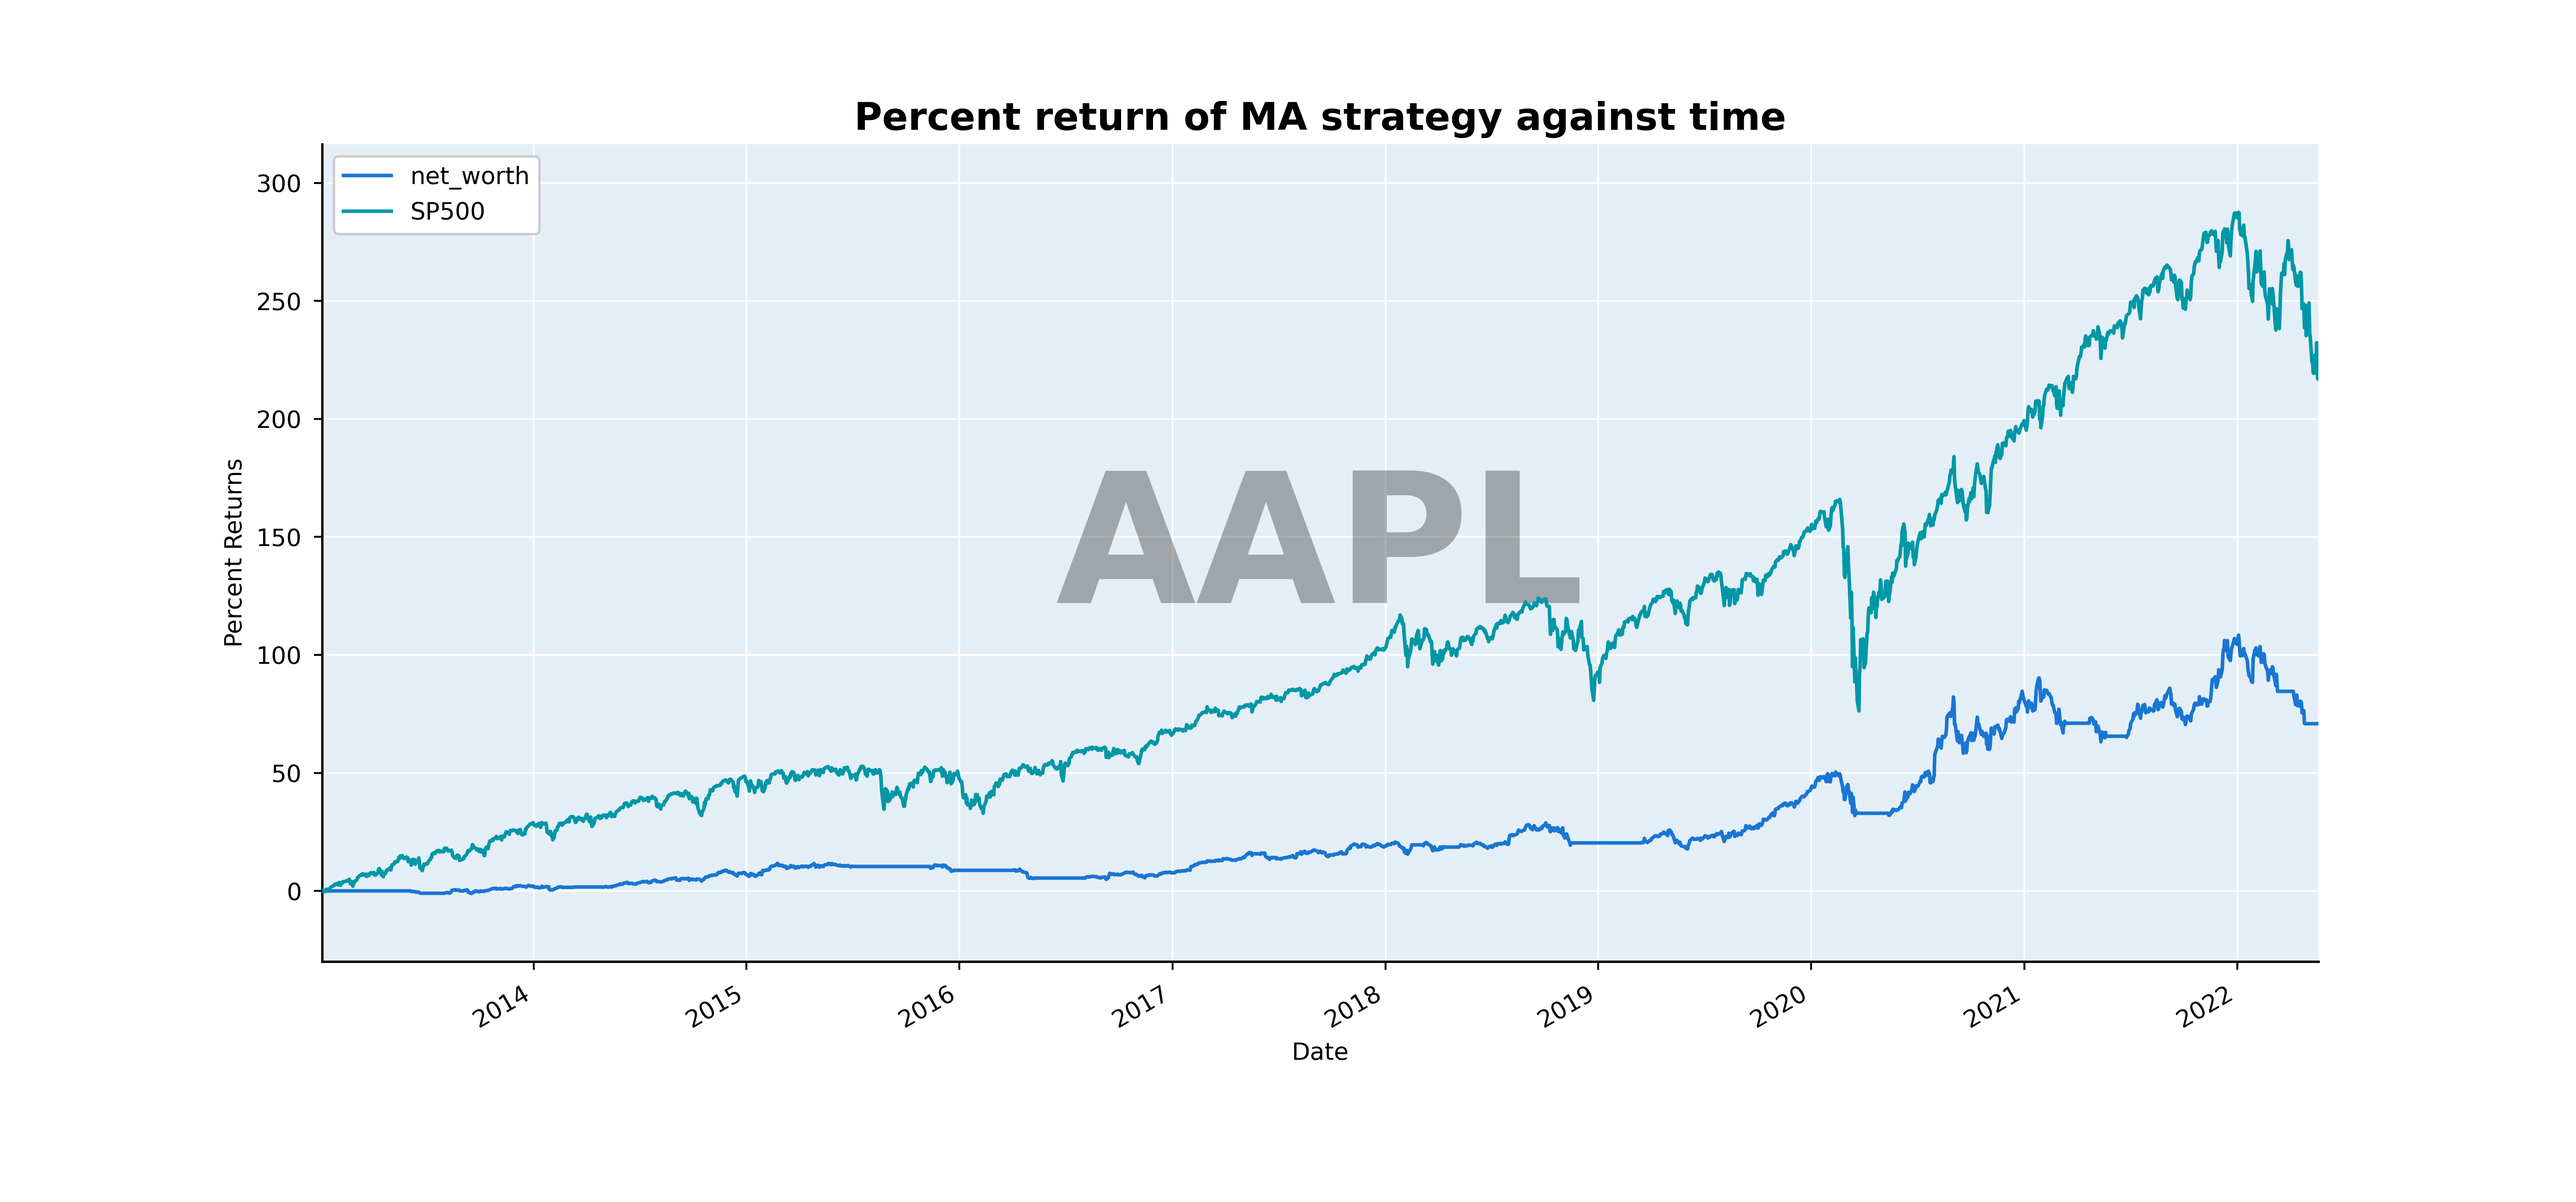
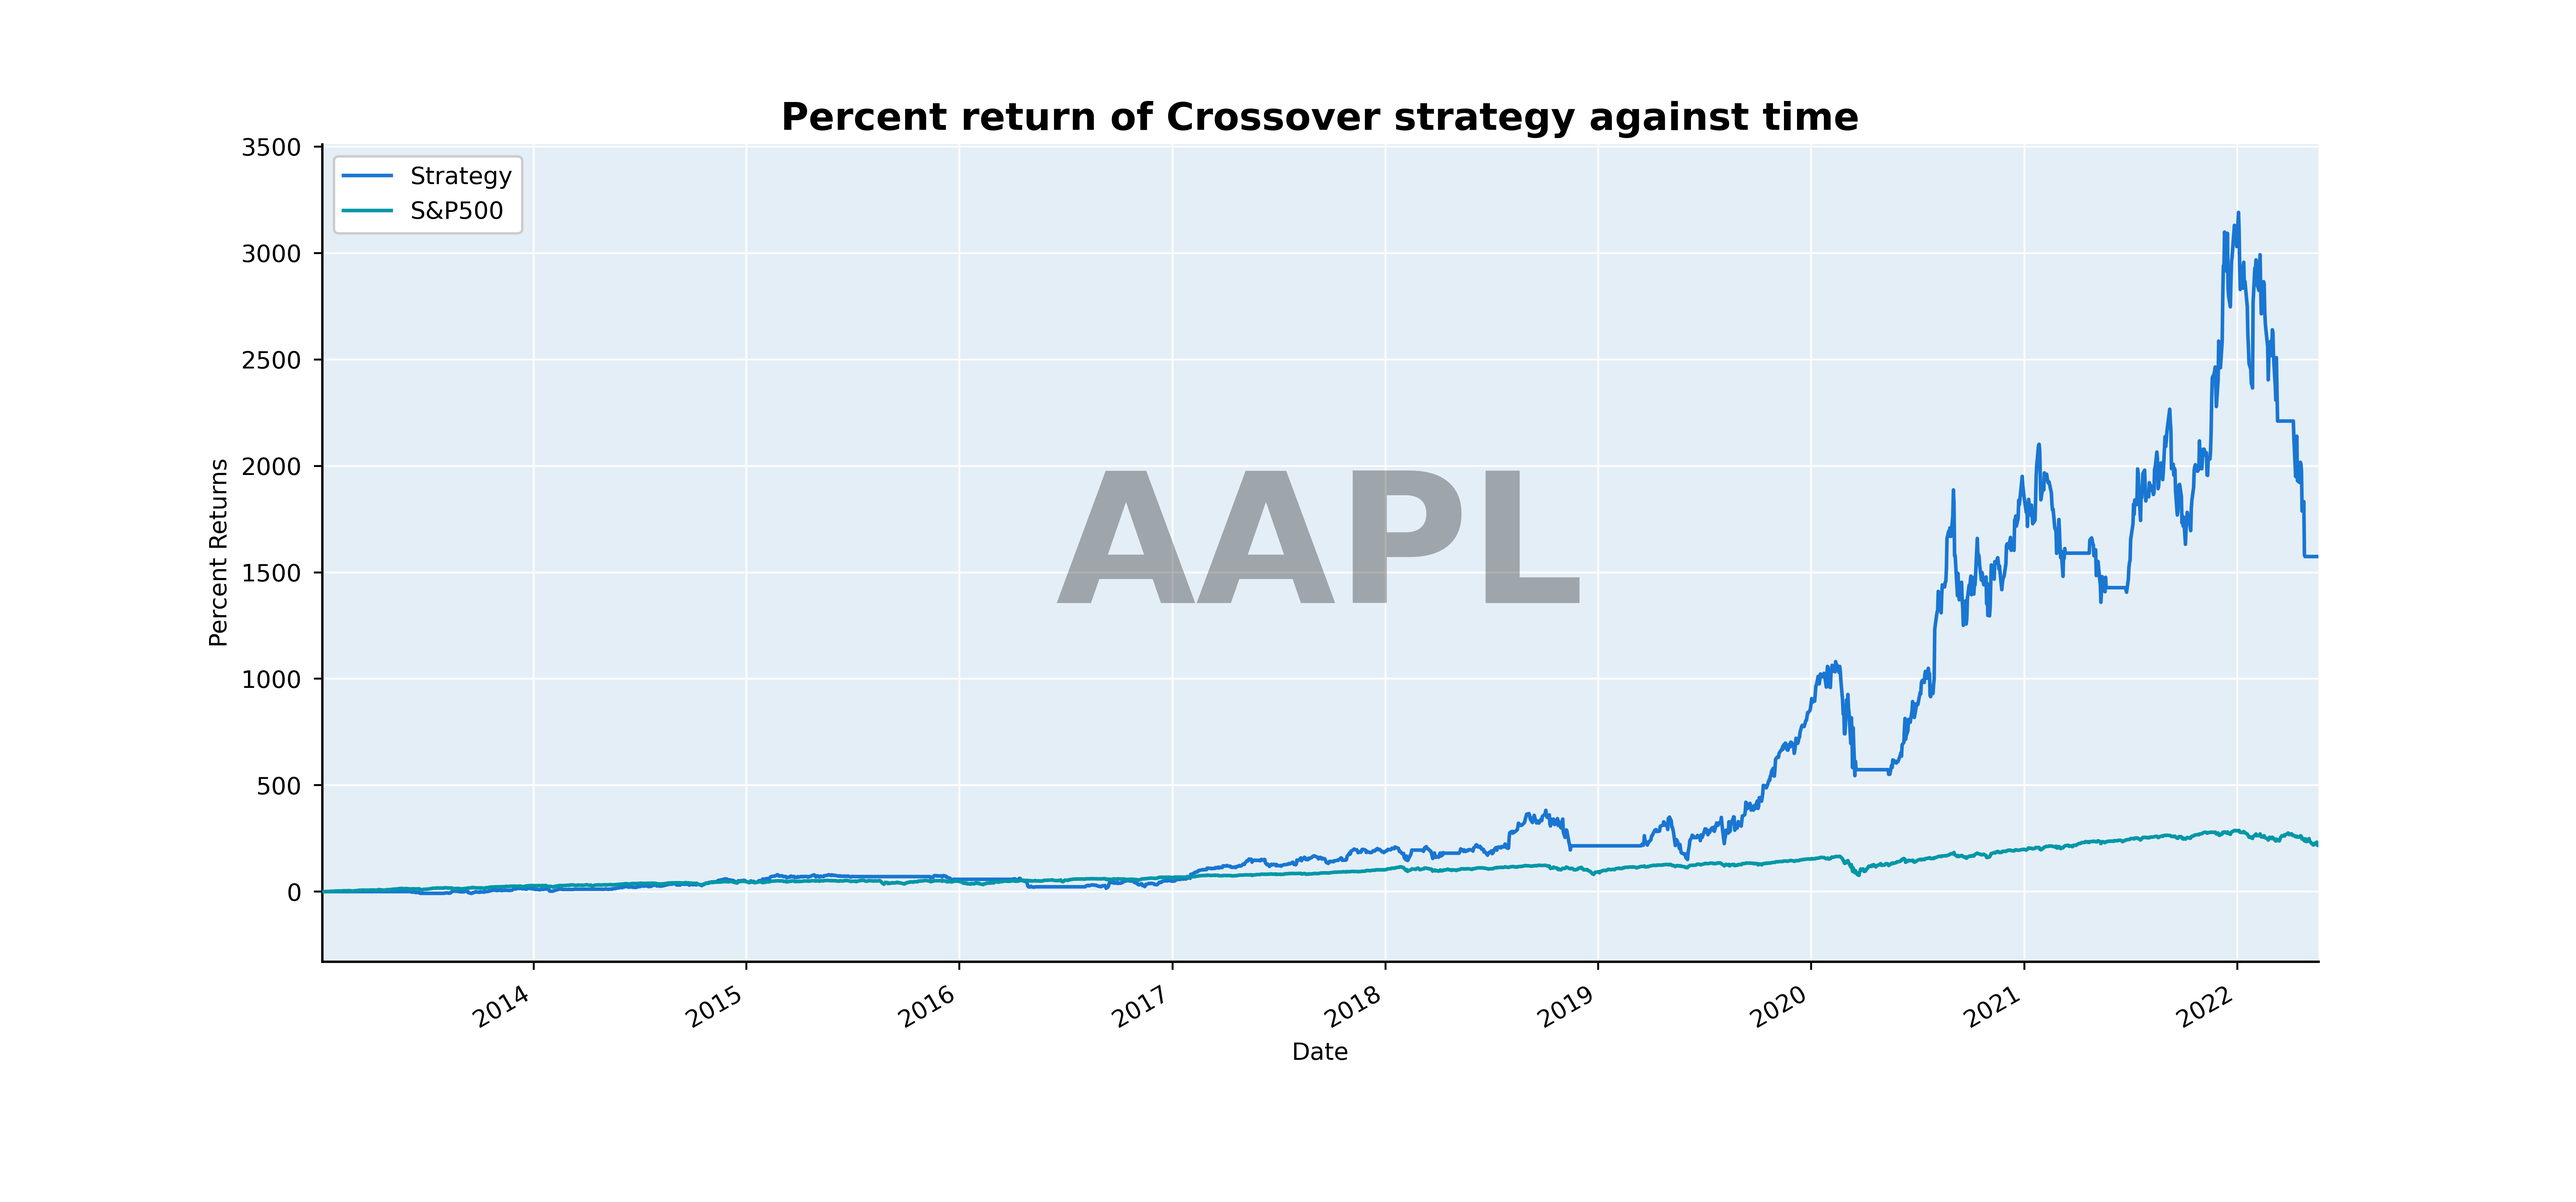
Updated README for the new run instructions

diff --git a/test-run.py b/test-run.py
@@ -1,5 +1,8 @@
+from turtle import back
+
+from custom_strats import *
 from finance_data import download_data, load_data
-from strats import Backtest, MA_Cross_Strat
+from strats import Backtest
 
 # Download data for tickers
 # download_data('AAPL', 'MSFT', 'TSLA').AAPL.to_csv("./data/aapl.csv")
@@ -7,26 +10,22 @@ from strats import Backtest, MA_Cross_Strat
 # Load data from a directory
 data = load_data("./data")
 
-# Enter data into strategy
-crossover = MA_Cross_Strat("aapl", data["aapl"])
-
-# Initalize backtest
-backtest = Backtest(100, "aapl", input_data=data["aapl"])
-backtest.setup_strat(crossover)
-
+# Setup and Run backtest
+backtest = Backtest(5000, "AAPL", MA_Cross_Strat, input_data=data["aapl"].last("10Y"))
 output = backtest.run()
+backtest.metrics()
 
 # Stats
-# backtest.metrics(output=False)
+# backtest.metrics(output=True)
 
 # Orders
 # orders = backtest.strat.orders
 # orders.to_df().to_csv("orders.csv")
 
-crossover.plot_data(
+backtest.strat.plot_data(
     ((output[["net_worth", "SP500"]].last("10Y").pct_change() + 1).cumprod() * 100)
     - 100,
-    title="Percent return of MA strategy against time",
+    title="Percent return of Crossover strategy against time",
     ylabel="Percent Returns",
     color="LIGHT",
 )

diff --git a/README.md b/README.md
@@ -8,15 +8,28 @@ Strategy Backtester is a **python** program that backtests various strategies to
 **Stats**
 
 ```bash
-                               Stats
-Net Profit                   193.681
-Profit Factor                  3.939
-Biggest Win                   43.246
-Biggest Loss                 -15.547
-Risk Reward                    0.099
-Average Profits                1.441
-Average Losses                -0.911
-Average Hold Time  146 days 04:48:00
+                                                Stats
+Ticker                                           AAPL
+Start Time                        2013-01-02 00:00:00
+End Time                          2022-05-20 00:00:00
+Start Amount                                     5000
+End Amount                                  83708.247
+Average Hold Time                   156 days 13:30:00
+Average Losses                              -7242.993
+Average Profits                              12216.62
+Biggest Loss                               -31825.015
+Biggest Win                                 50857.595
+Compound Annual Growth Rate (%)                36.766
+Max Drawdown (%)                               -49.13
+Average Drawdown (%)                          -11.827
+Net Profit                                  78708.247
+Profit Factor                                   2.811
+Risk Reward                                     0.071
+Sharpe Ratio                                    1.051
+Volatility Annualized (% change)                0.454
+Beta                                            0.209
+Alpha                                          15.265
+R-Squared                                       0.565
 ```
 
 ## How it Works:
@@ -47,8 +60,9 @@ Download the `finance.py` and `strats.py` to the folder where the backtest is go
 ## Usage:
 
 ```python
+from custom_strats import MA_Cross_Strat
 from finance_data import download_data, load_data
-from strats import Backtest, MA_Cross_Strat
+from strats import Backtest
 
 # Download data for tickers
 # download_data('AAPL', 'MSFT', 'TSLA').AAPL.to_csv("./data/aapl.csv")
@@ -56,22 +70,34 @@ from strats import Backtest, MA_Cross_Strat
 # Load data from a directory
 data = load_data("./data")
 
-# Enter data into strategy
-crossover = MA_Cross_Strat("aapl", data["aapl"])
-
-# Initalize backtest
-backtest = Backtest(100, "aapl", input_data=data["aapl"])
-backtest.setup_strat(crossover)
-
+# Initalize backtest and run strategy
+backtest = Backtest(5000, "AAPL", MA_Cross_Strat, input_data=data["aapl"].last("10Y"))
 output = backtest.run()
-crossover.plot_data(
+```
+
+### Plot Strategy against S&P500
+
+```python
+# Plotting
+backtest.strat.plot_data(
     ((output[["net_worth", "SP500"]].last("10Y").pct_change() + 1).cumprod() * 100)
     - 100,
-    title="Percent return of MA strategy against time",
+    title="Percent return of Crossover strategy against time",
     ylabel="Percent Returns",
     color="LIGHT",
 )
 # Graph will be stored in ./Graphs
+```
+
+### Access Metrics
+
+```python
+# metrics for the backtest
+backtest = Backtest(...)
+
+# print output to stdout if output is marked True
+statss = backtest.metrics(output=False)
+
 ```
 
 ### Download Data
@@ -103,22 +129,11 @@ orders = backtest.strat.orders
 orders.to_df().to_csv("orders.csv")
 ```
 
-### Access Metrics
-
-```python
-# metrics for the backtest
-backtest = Backtest(...)
-
-# print output to stdout if output is marked True
-backtest.metrics(output=True)
-
-```
-
 ## Work in Progress
 
 1. Add more strategies
 2. Adapt code to work with **options**
 3. Make script to analyze other sources of data to get better insight into which stocks to backtest
-4. Add more stats
+4. ~~Add more stats~~
 5. Add more items so framework is more robust
 6. **Maybe:** _Add algotrading bot to program_
